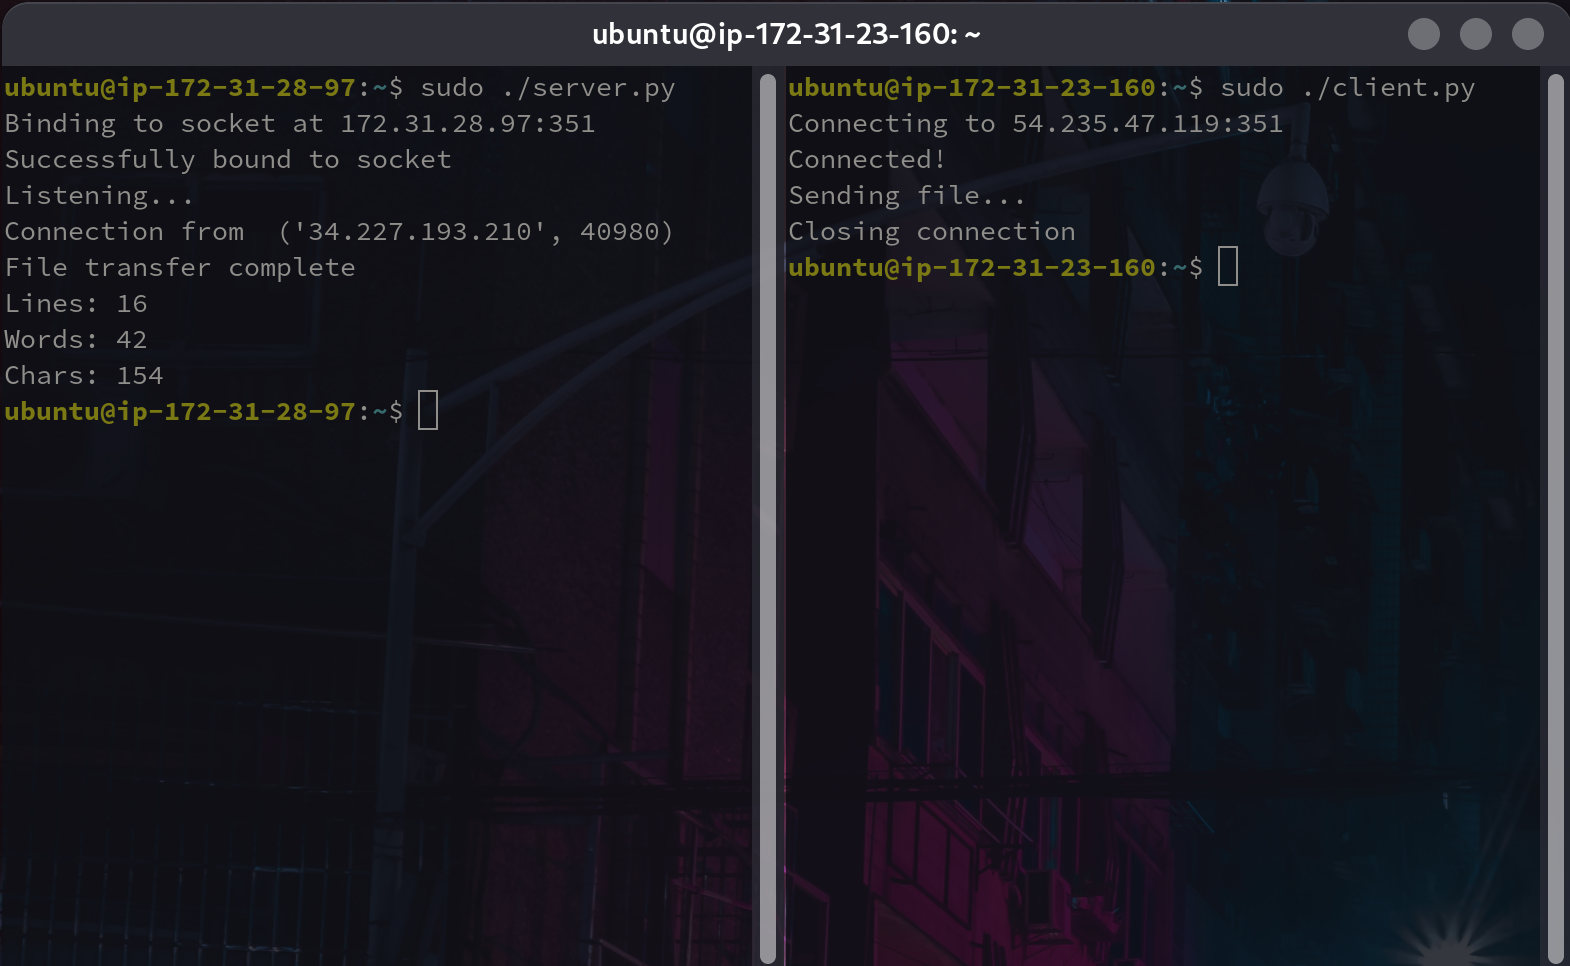
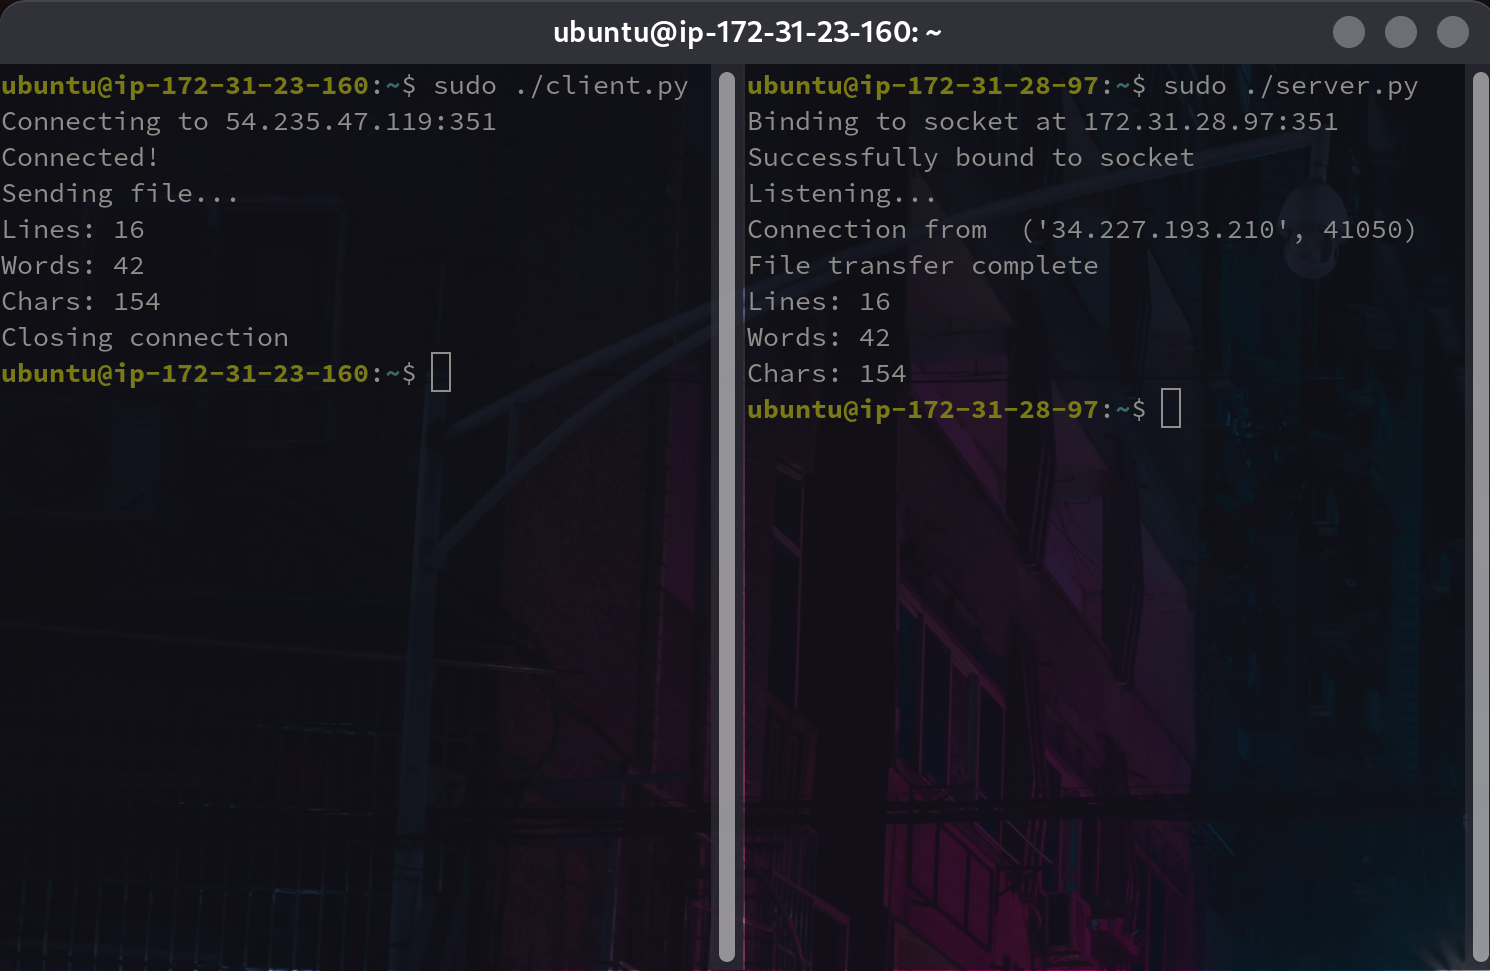
hw2: Return stats to client

diff --git a/hw2/client.py b/hw2/client.py
@@ -32,6 +32,9 @@ fileBuffer = file.read(fileSizeLimit)
 clientSocket.send(fileBuffer)
 file.close()
 
+# Get Server response
+print(clientSocket.recv(fileSizeLimit).decode('utf-8'))
+
 # Close connection
 print("Closing connection")
 clientSocket.shutdown(socket.SHUT_WR)

diff --git a/hw2/server.py b/hw2/server.py
@@ -34,3 +34,6 @@ for line in lineArr:
     chars += len(line.strip())
 print("Words:", words)
 print("Chars:", chars)
+
+socket.send(bytes("Lines: " + len(lineArr).__str__() +
+	"\nWords: " + words.__str__() + "\nChars: " + chars.__str__(), 'utf-8'))
